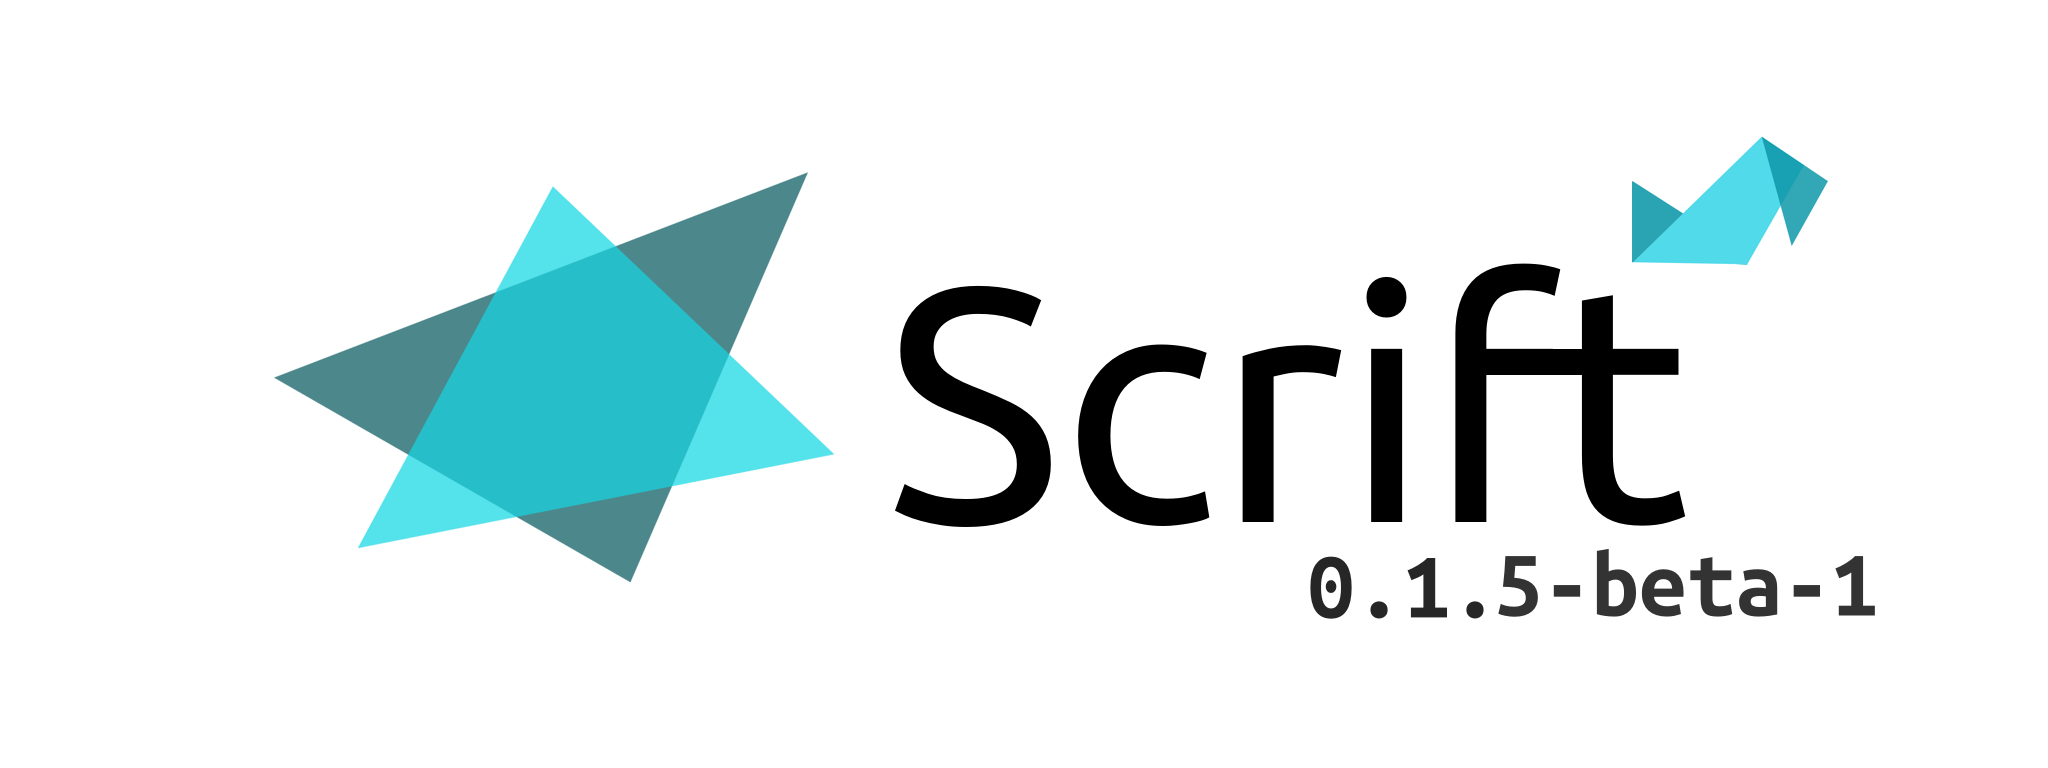
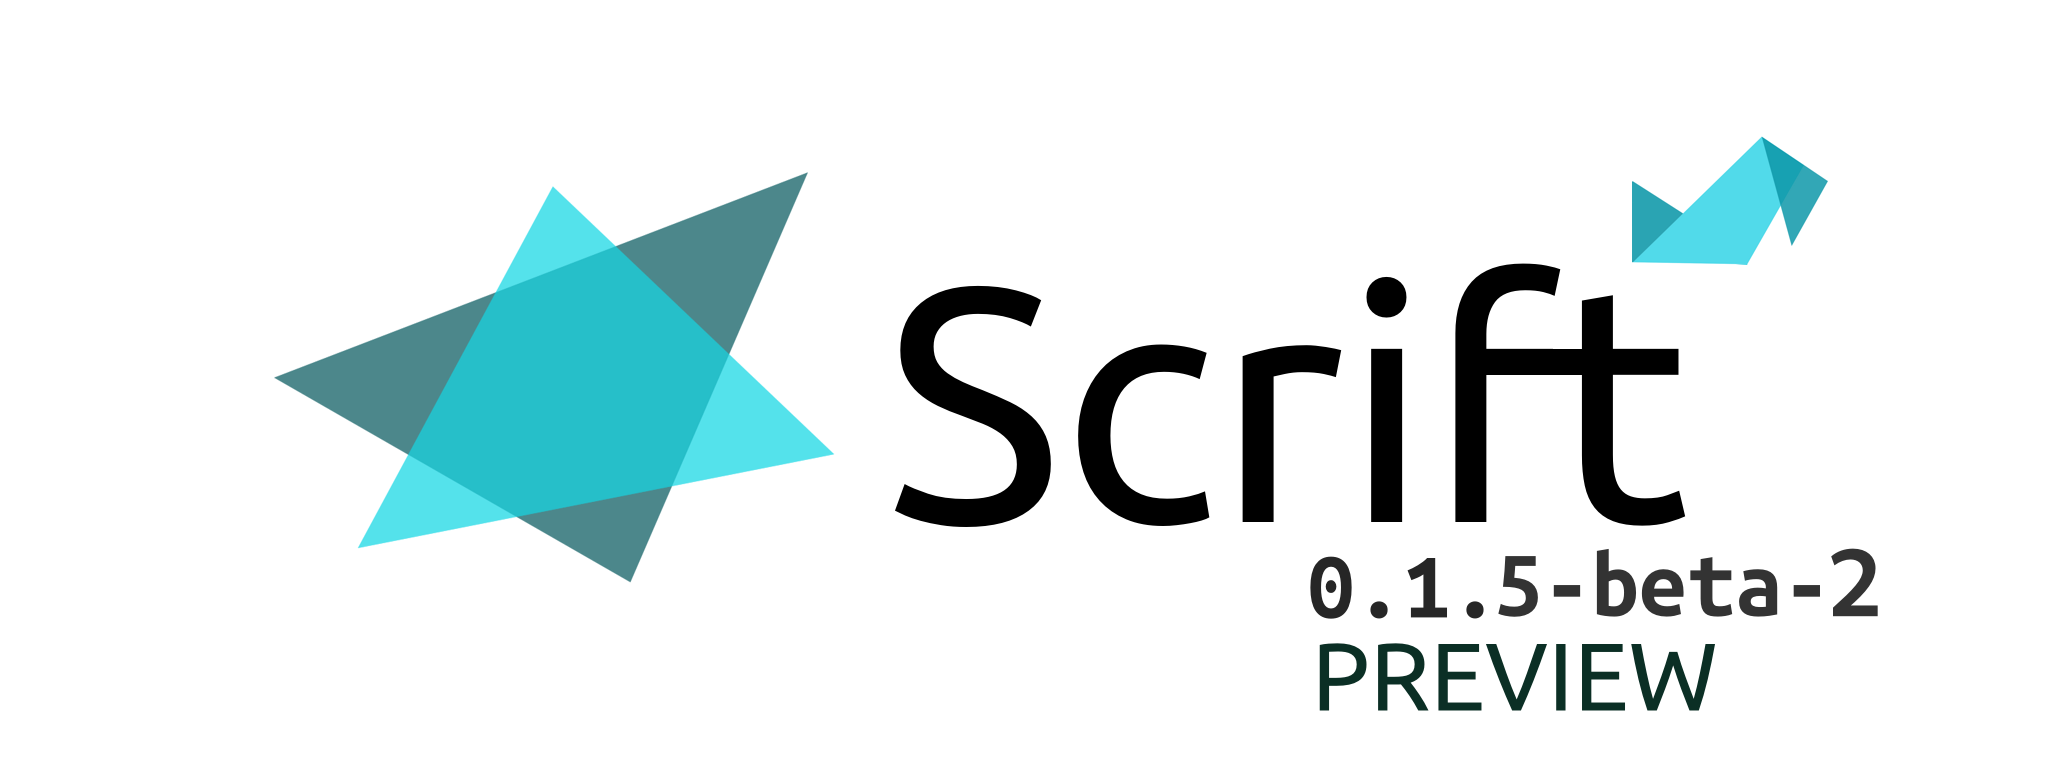
Scrift's version bumped to 0.1.5-beta-2-preview

Changed region(s): [[0.625, 0.8125, 0.8438, 0.9375], [0.875, 0.7188, 0.9375, 0.7812], [0.875, 0.7812, 0.9062, 0.8125]]

diff --git a/include/src/Scrift.hpp b/include/src/Scrift.hpp
@@ -30,7 +30,7 @@
 #define hyphen "-"
 
 #define SCRIFT_VERSION "0.1.5"
-#define SCRIFT_STATUS "beta-1"
+#define SCRIFT_STATUS "beta-2-preview"
 
 
 // Input Definitions
